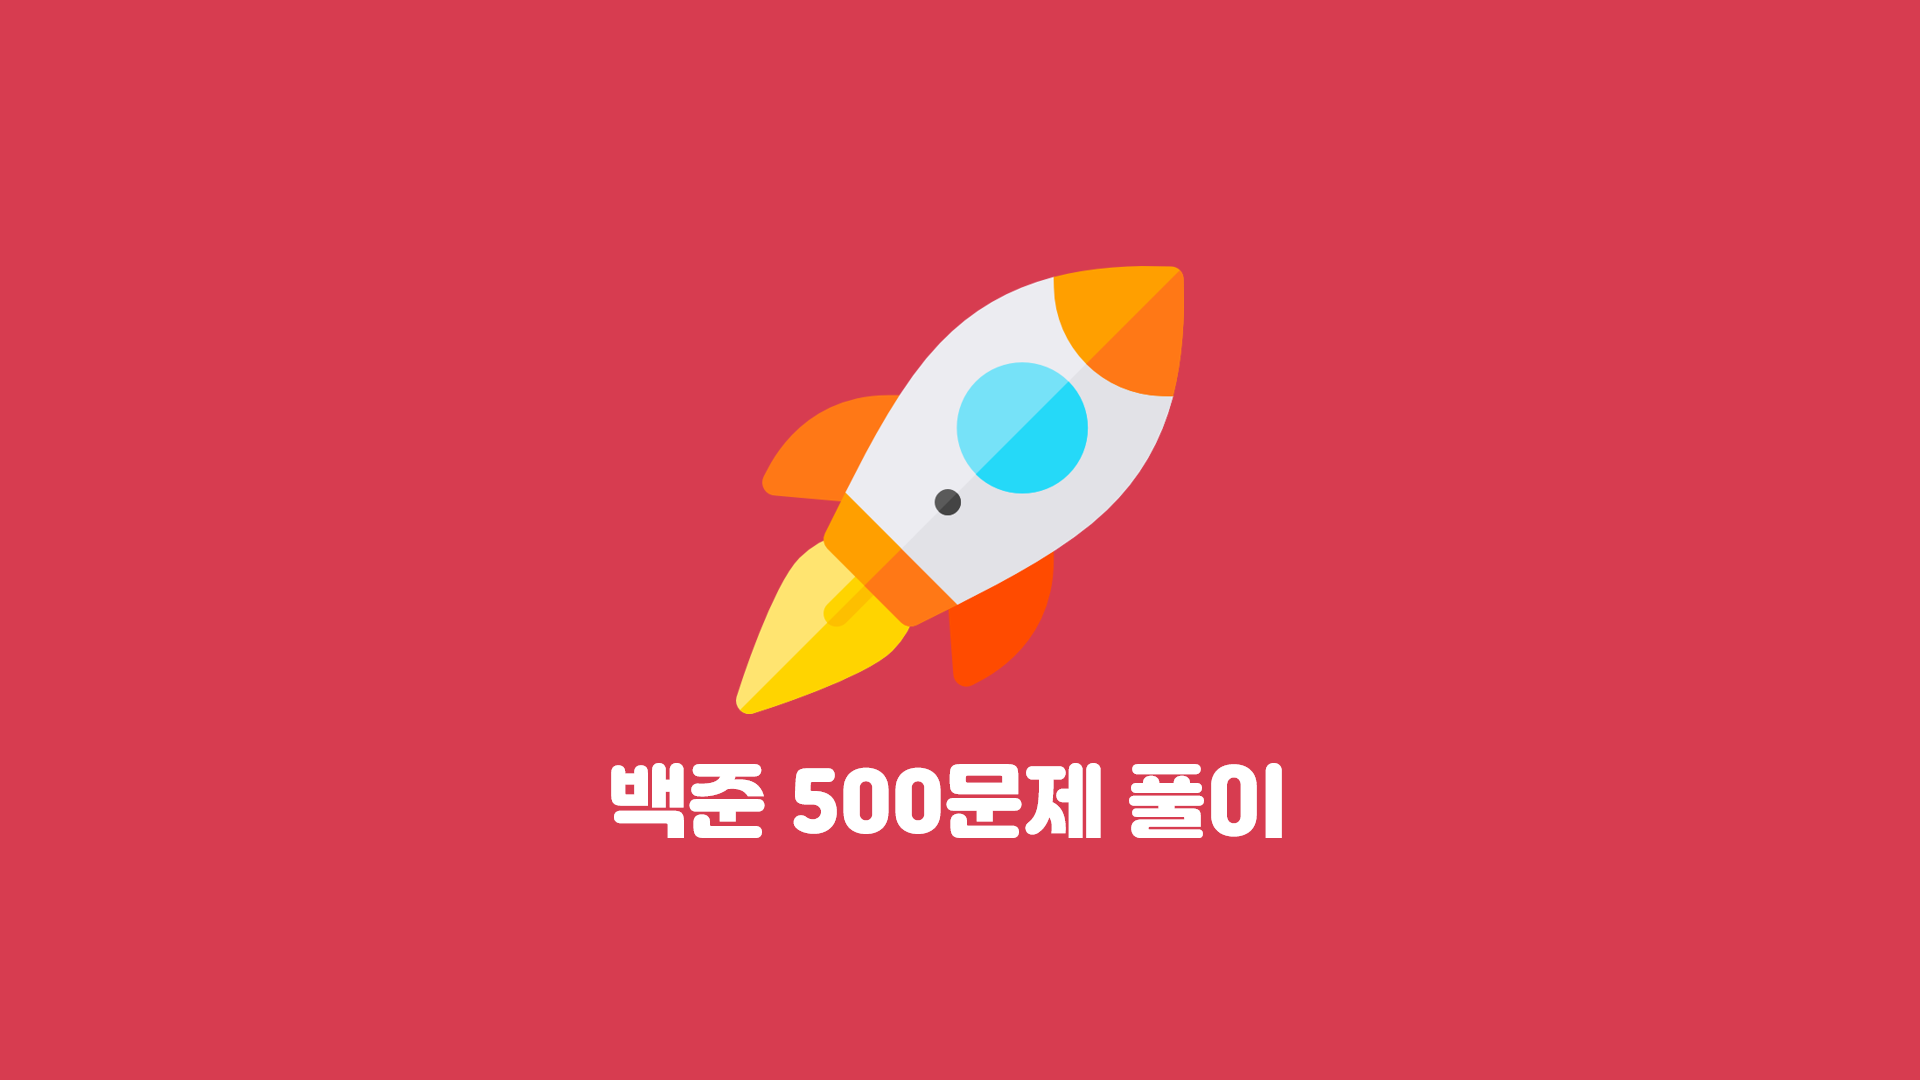
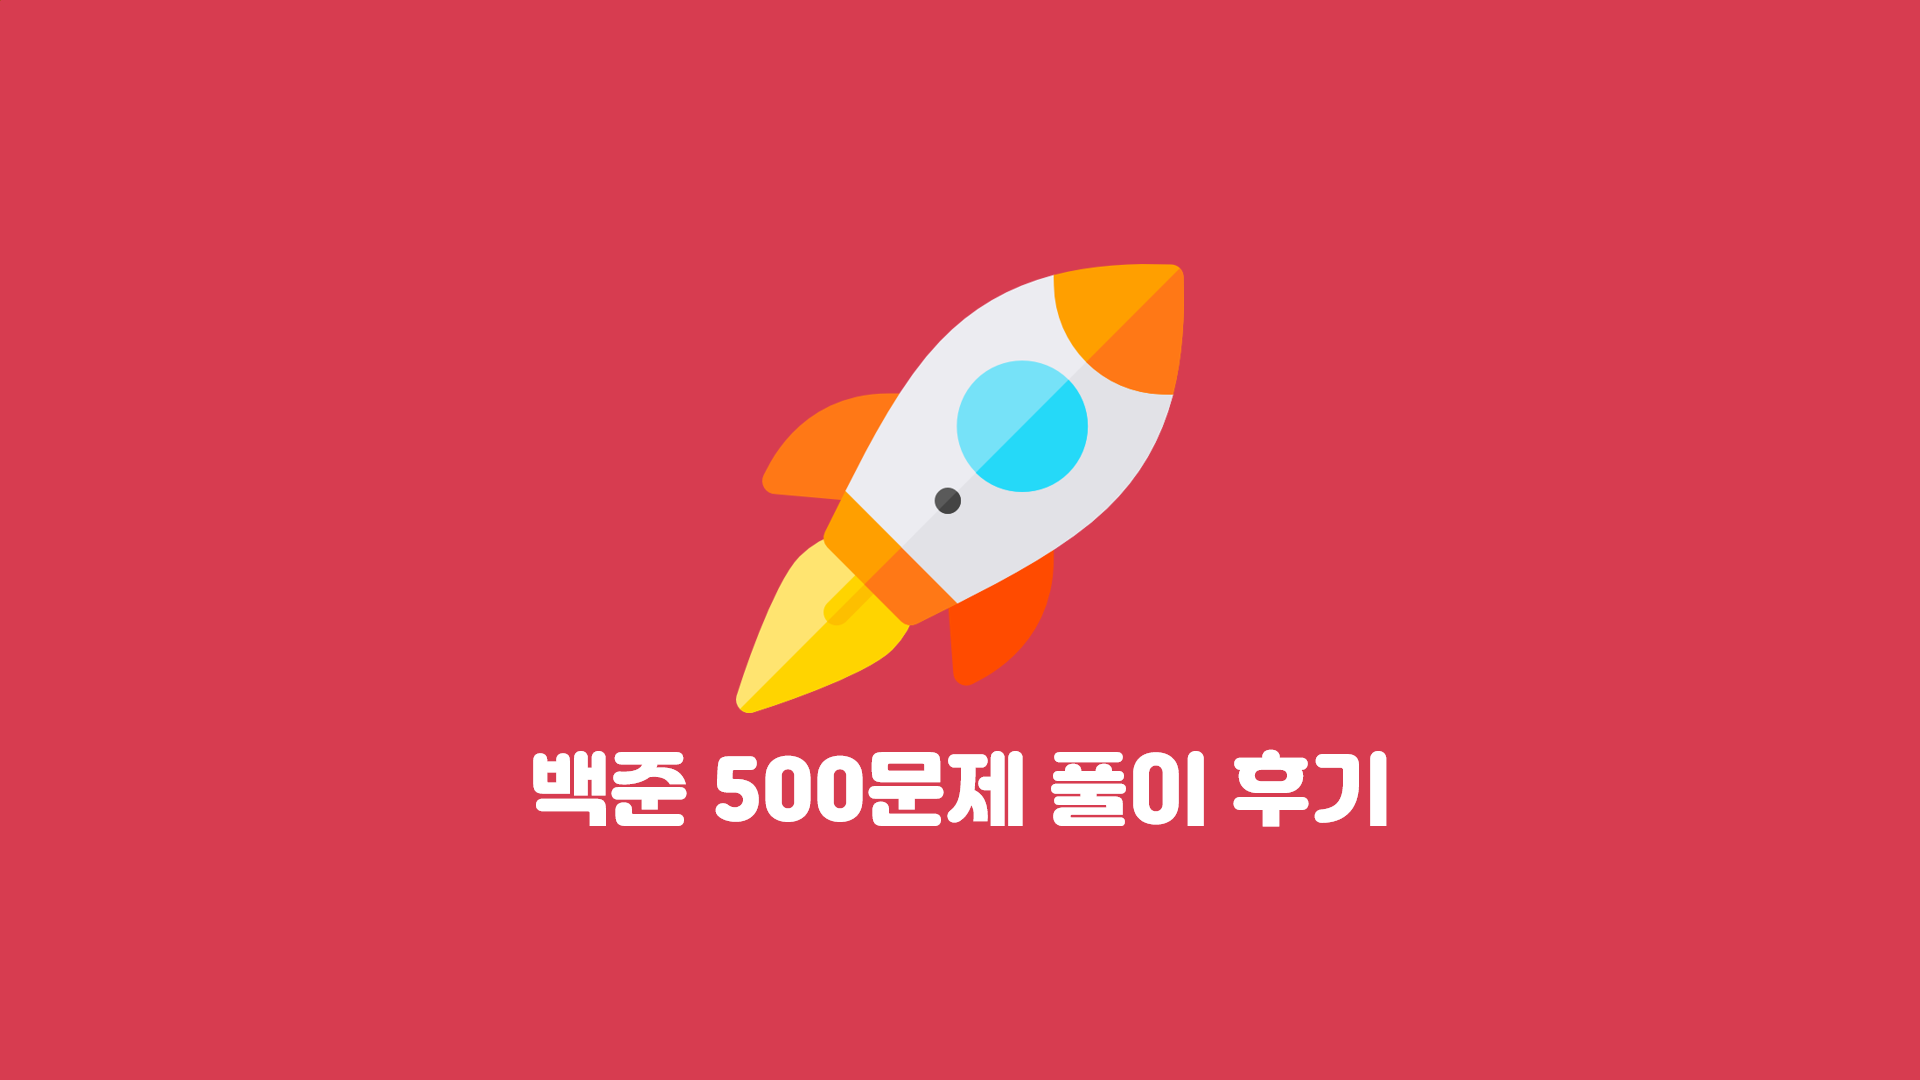
[FIX] 백준 500문제 풀이 후기
- 커버 이미지 수정
- 내용 수정

Changed region(s): [[0.25, 0.6722, 0.75, 0.7944]]

diff --git a/Article/프로젝트후기/백준500문제달성/백준500문제달성.md b/Article/프로젝트후기/백준500문제달성/백준500문제달성.md
@@ -17,13 +17,13 @@
 <br />
 
 - 알고리즘을 공부하면서 생긴 스킬을 정리하여 [용감하게 시작하는 코딩테스트 1편](https://covenant.tistory.com/141)을 작성하였습니다.
-- 취준생에서 서버개발자로 취업을 하였습니다.
+- 취준을 끝내고 서버개발자로 취업을 하였습니다.
 - 알고리즘에 투자하는 시간을 줄이고 컨퍼런스 참여, 클라우드 그리고 백엔드 공부에 시간을 많이 할당하고 있습니다.
 - 알고리즘 온라인 스터디를 하고 있습니다.
 
 <br />
 
-정리하면 다른 공부에 정신이 팔여서 400문제에서 500문제 되기까지 시간이 많이 걸렸습니다.
+다른 공부에 정신이 팔여서 400문제에서 500문제 되기까지 3개월 정도 시간이 걸렸습니다.
 
 <br />
 
@@ -32,20 +32,19 @@
 
 <br />
 
-
 - 제한된 요구사항을 바탕으로 정확하게 구현해야하는 상황이 생깁니다.
 - 제한된 응답 속도에서 일정 이상의 퍼포먼스를 보장해야할 때가 있습니다. 
 - 코드에서 병목지점을 찾아낼 수 있어야 합니다.
 - 타인이 특정 목적을 위해 개발한 코드를 읽는 능력이 필요합니다.
+- 다양한 경우의수를 고려하여 유닛테스트를 작성할 수 있는 능력이 필요합니다.
 
 <br />
-
 
 이를 위해서 알고리즘을 공부하는 것은 기초 체력을 쌓는 것과 같습니다. 축구로 따지면 드리블을 연습이 되겠습니다. 만약 취준생인 저에게 돌아가서 조언을 한다면 취준을 위해서 알고리즘을 푸는 것을 넘어서 좋은 개발자가 되기 위해서 알고리즘을 풀라는 말을 할 것입니다. 
 
 <br />
 
-채용 과정에서 과도하게 코딩테스트가 어려운 회사가 있고 취준생 입장에서 취업의 장애물이 코딩테스트라는 점은 공감을 합니다. 저 또한 취업을 위해서 오랜 기간 코딩테스트를 공부하였기에 그 힘듦을 누구보다도 공감합니다. <br />
+채용 과정에서 과도하게 코딩테스트가 어려운 회사가 있고 취준생 입장에서 취업의 장애물이 코딩테스트가 아닐까 생각해봅니다. 저 또한 취업을 위해서 오랜 기간 코딩테스트를 공부하였기에 그 힘듦을 누구보다도 공감합니다. <br />
 코딩테스트 공부가 취업을 위해서 지나야하는 하나의 관문이 아닌 좋은 개발자가 되기 위한 시작이라는 점을 말씀드리며 오늘 하루도 막막하게 공부하는 취준생을 응원합니다! <br />
 
 
@@ -53,10 +52,10 @@
 <br />
 <img src="https://github.com/KoEonYack/Tistory-Coveant/blob/master/Article/%ED%94%84%EB%A1%9C%EC%A0%9D%ED%8A%B8%ED%9B%84%EA%B8%B0/%EB%B0%B1%EC%A4%80500%EB%AC%B8%EC%A0%9C%EB%8B%AC%EC%84%B1/img/naver.jpg?raw=true" align="center" style="display: block; margin: 0px auto; display: block; height: auto; border:1px solid #eaeaea; padding: 0px;" width="" >
 <br />
-<center> 네카라 와 같은 높은 목표를 설정하는 것도 좋지만 세상에는 즐겁게 개발할 수 있는 곳도 많답니다. </center>
+<center> 네카라와 같은 높은 목표를 설정하는 것도 좋지만 세상에는 즐겁게 개발할 수 있는 곳도 많답니다. </center>
 
 <br />
 <br />
 
 Ps. 
-취준 단톡방에서 네카라쿠토배당쏘야11(네이버, 카카오, 라인, 쿠팡, 토스, 배달의민족{우아한형제들}, 당근마켓, 쏘카, 야놀자, 11번가)이라는 파생어를 보기도 했습니다 ㅎㅎ. 
+취준 단톡방에서 네카라쿠토배당쏘야11엔(네이버, 카카오, 라인, 쿠팡, 토스{비바리퍼블리카}, 배달의민족{우아한형제들}, 당근마켓, 쏘카, 야놀자, 11번가, NHN)이라는 파생어를 보기도 했습니다 ㅎㅎ. 
